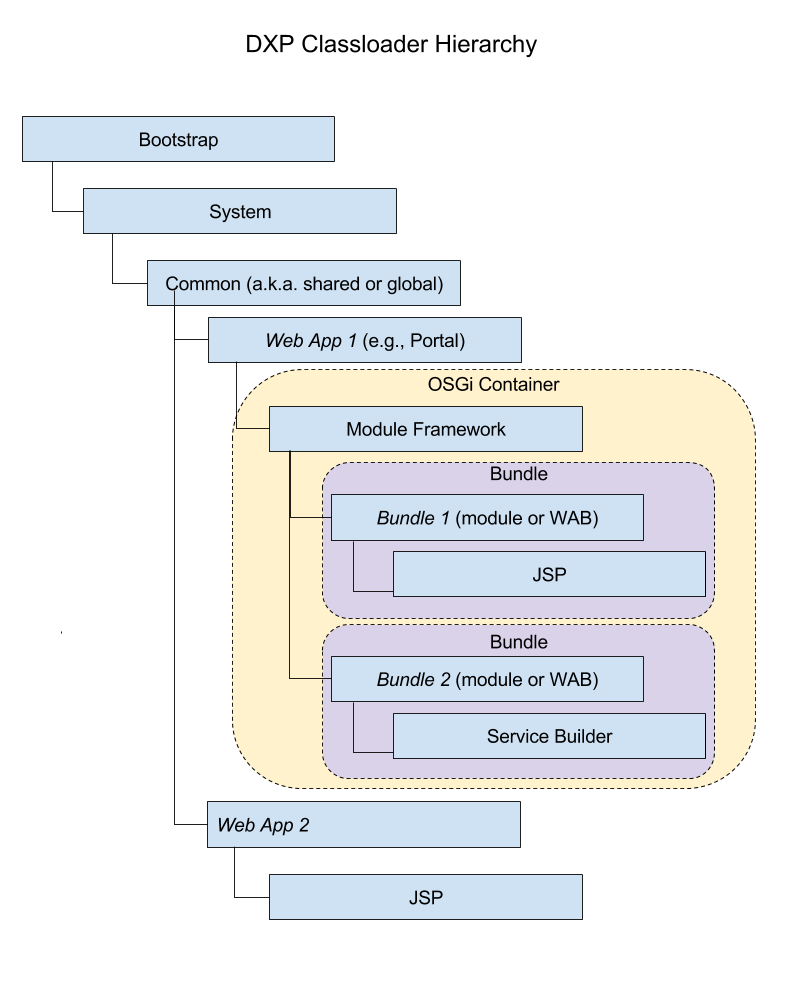
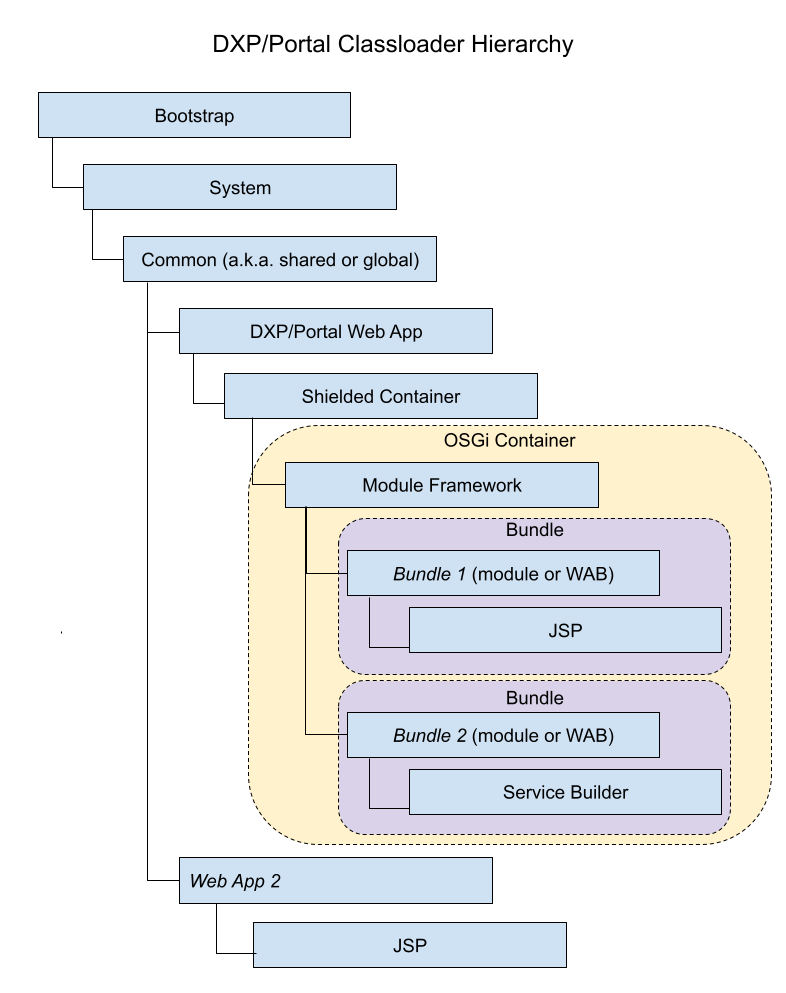
LRDOCs-8923 update Liferay Classloader Hierarchy with the Shielded Container

Changed region(s): [[0.0305, 0.0937, 1.0, 0.999], [0.2748, 0.0312, 0.7328, 0.0624]]

diff --git a/docs/dxp/latest/en/liferay-internals/architecture/liferay-classloader-hierarchy.md b/docs/dxp/latest/en/liferay-internals/architecture/liferay-classloader-hierarchy.md
@@ -19,7 +19,14 @@ Here are the classloader descriptions:
 
 * **Common**: Classes accessible globally to web applications on the application server.
 
-* **Web Application**: Classes in the application's `WEB-INF/classes` folder and `WEB-INF/lib/*.jar`.
+* **Web Application (e.g., DXP/Portal)**: Classes in the application's `WEB-INF/classes` folder and `WEB-INF/lib/*.jar`.
+
+    Note, the only Liferay classes that the DXP/Portal web application interacts with are in Liferay's *Shielded Container* JAR files:
+    
+    * `com.liferay.shielded.container.api.jar`
+    * `com.liferay.shielded.container.impl.jar`
+
+* **Shielded Container**: Classes in `WEB-INF/shielded-container-lib/*.jar`.
 
 * **Module Framework**: Liferay's OSGi module framework classloader provides controlled isolation for the module framework bundles.
 
